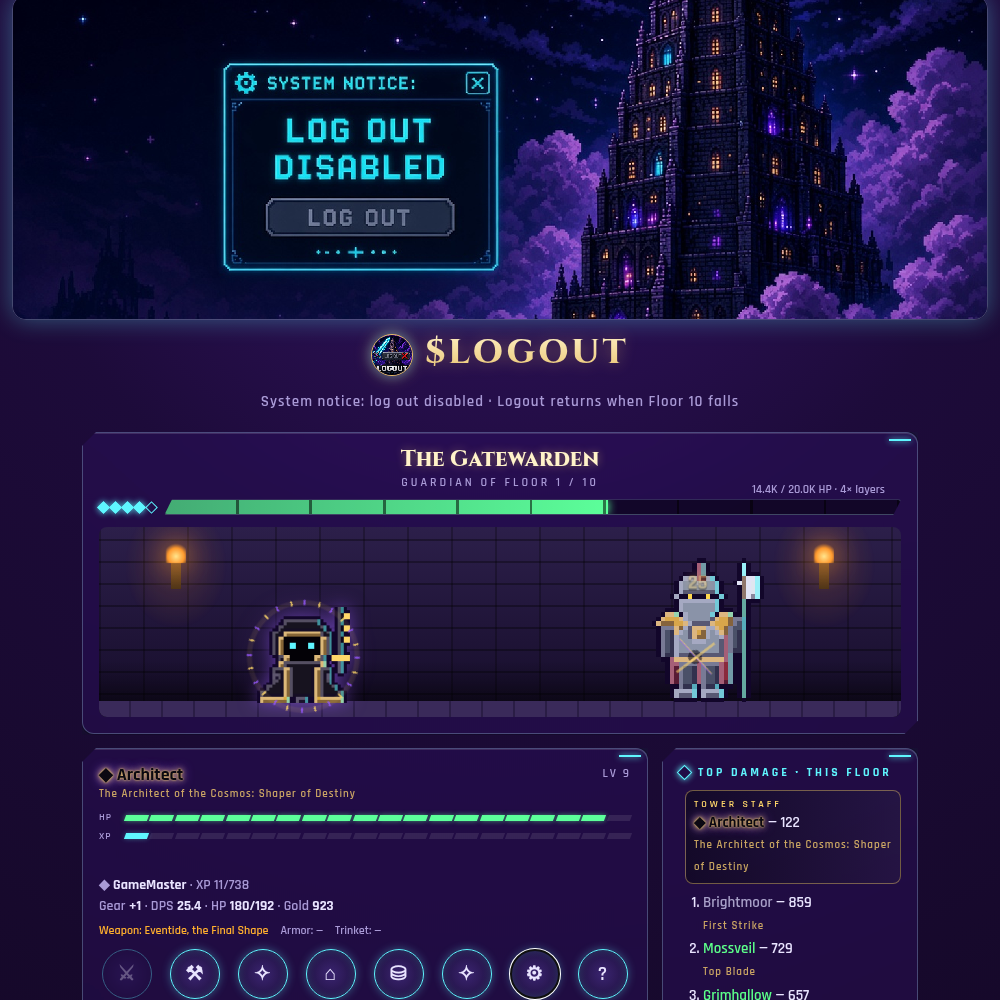
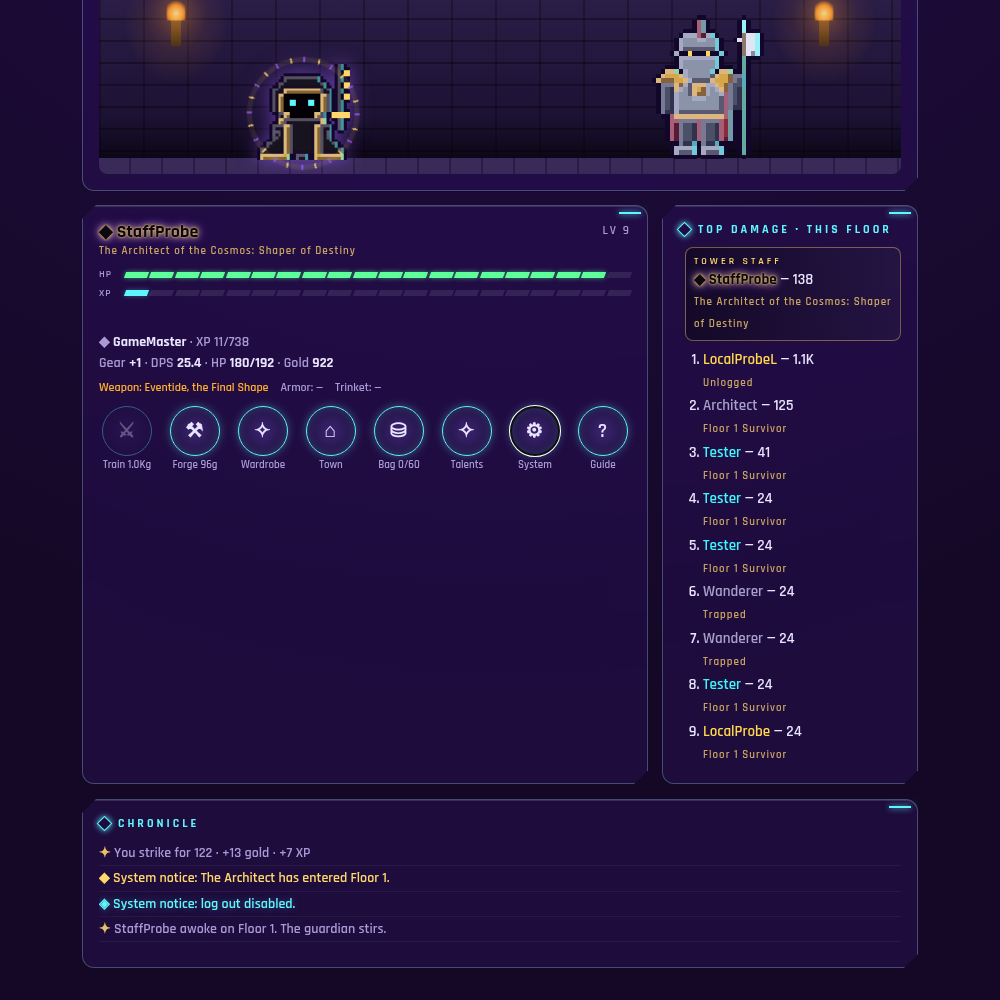
Switch online mode on: guest carry-over, graceful local fallback, local-only staff stays off the shared floor

diff --git a/js/main.js b/js/main.js
@@ -50,7 +50,7 @@ function picker(el, slots, look, heroCls, progress, onPick) {
 async function boot() {
   $('maxf').textContent = MAX_FLOOR;
   be = await makeBackend(); save = migrateSave(await be.loadSave()); if (save) delete save.ctx; // live-only context, never trusted from storage
-  gmValid = be.name === 'supabase' ? !!be.isGm?.() : await checkPass(localStorage.getItem('logout.v1.gm'), GM_PASS_HASH); // server role, or the local hash unlock
+  gmValid = !!be.isGm?.() || await checkPass(localStorage.getItem('logout.v1.gm'), GM_PASS_HASH); // server role, or the local hash unlock (also online, until the role is granted)
   if (save && sanitizeSave(save, gmValid)) { save = migrateSave(save); await be.saveSave(save); } // pasted staff ids are stripped
   if (!save) return showCreate();
   { const f0 = (await be.getFloor()).floor, bi = bossInfo(f0); save.ctx = { element: bi.lootElement, special: isSpecialSlot(f0), gm: gmValid }; } // offline maths sees the same floor context
@@ -58,7 +58,7 @@ async function boot() {
   save.gold += p.gold; const ups = applyXp(save.heroes, p.xp); pending += p.damage;
   const offFloor = (await be.getFloor()).floor, trickled = trickleDrops(save, p.secs, offFloor, TRICKLE.offlineMax);
   if (p.secs > 30) {
-    const r = await be.submitDamage(h0.name, pending, h0); pending = 0;
+    const r = await submitDmg(h0.name, pending, h0); pending = 0;
     lootLines = []; const got = handleClears(r.clears, true);
     $('awaytxt').innerHTML = `Log out disabled. You fought on for ${fmtDur(p.secs)}${p.capped ? ` (capped at ${cap}h)` : ''}${p.vigilUsed ? ' · Scroll of Vigil burned' : ''}<br>HP: ${Math.round(heroHp(h0))} / ${heroMaxHp(h0)}${p.lowSecs > 0 ? ` · worn down for ${fmtDur(p.lowSecs)} (DPS halved). Rest at the inn.` : ''}<br>Damage: ${fmt(p.damage)}<br>Gold: +${fmt(p.gold)}<br>XP: +${fmt(p.xp)}${ups.length ? `<br>Level ups: ${ups.length}` : ''}${r.advanced ? `<br>Floors cleared: ${r.advanced}. Floor ${r.floor} is open.` : ''}${got.length ? `<br>Cosmetics unlocked: ${got.map(i => esc(i.label)).join(', ')}` : ''}${lootLines.length || trickled.length ? `<br>Loot: ${[...lootLines, ...trickled.map(it => `<span style="color:${rarityOf(it.rarity).color}">${esc(it.name)}</span>`)].join(', ')}` : ''}`;
     $('away').showModal();
@@ -121,7 +121,7 @@ document.addEventListener('visibilitychange', () => { if (!document.hidden) catc
 addEventListener('focus', catchUp); addEventListener('pageshow', catchUp);
 async function sync() {
   if (be.name === 'local') be.decree = gmValid;
-  const r = await be.submitDamage(save.heroes[0].name, pending, { ...save.heroes[0], staff: gmValid }); pending = 0;
+  const r = await submitDmg(save.heroes[0].name, pending, { ...save.heroes[0], staff: gmValid }); pending = 0;
   if (recent.dmg > 0) { log(`You strike for ${fmt(recent.dmg)} · +${fmt(recent.gold)} gold · +${fmt(recent.xp)} XP`); recent = { dmg: 0, gold: 0, xp: 0 }; }
   const quiet = quietSync; quietSync = false; // clears that happened before this session are logged, not re-toasted
   if (r.advanced) { const f = r.floor - 1; log(`${bossName(f)} fell beneath many blades. The stair to Floor ${r.floor} lies open.`); log(`System notice: Floor ${r.floor} is open.`); floorCleared(f); setTimeout(() => notice(`Floor ${r.floor} is open`), 2400); }
@@ -159,7 +159,8 @@ function render() {
 }
 async function renderLb() {
   const h = save.heroes[0];
-  $('lb').innerHTML = (await be.leaderboard(h.name)).map(r => {
+  let rows = await be.leaderboard(h.name); if (localStaffOnly()) rows = [{ name: h.name, damage: localStaffDmg, staff: true, rank: 0 }, ...rows.filter(r => r.name !== h.name)];
+  $('lb').innerHTML = rows.map(r => {
     const me = r.name === h.name, pr = me ? { title: titleOf(h), color: nameColorOf(h) } : fakeProfile(r.name);
     if (r.staff) return `<li class="staff" value="0"><small>Tower Staff</small><span class="gmname">${GM_SIGIL} ${esc(r.name)}</span> — ${fmt(r.damage)}<br><span class="ttl">${esc(me ? titleOf(h) : 'Tower Staff')}</span></li>`;
     return `<li class="${me ? 'me' : ''}" value="${r.rank}"><span style="color:${pr.color}">${esc(r.name)}</span> — ${fmt(r.damage)}<br><span class="ttl">${esc(pr.title)}</span>${me && r.rank > 3 ? '<div class="climb">Climb: Train, Forge and equip loot to raise DPS. Top 3 on a kill earns rare rewards.</div>' : ''}</li>`;
@@ -255,8 +256,9 @@ function openTalents() {
 let gmValid = false; const gmActive = () => gmValid;
 async function openSystem() {
   const online = be.name === 'supabase', canBind = featureOn(FEATURES, 'bindIdentity', gmActive()), anon = online && be.isAnonymous();
+  const uid = online && be.user?.id ? `<p class="sub">Tower ID: <code id="towerId">${esc(be.user.id)}</code> <button id="copyId">Copy</button></p>` : '';
   const status = !online ? 'Offline mode. Your progress lives in this browser only.' : anon ? 'Guest identity. Bind it to keep your progress across devices.' : 'Identity bound. Your progress is stored in the tower.';
-  $('sysBody').innerHTML = `<div class="sysnote"><p>${esc(status)}</p>
+  $('sysBody').innerHTML = `<div class="sysnote"><p>${esc(status)}</p>${uid}
     ${canBind ? `<div class="bind ${online ? '' : 'off'}"><h3>Bind your identity</h3>
       <button id="bindWallet" class="cta" ${online ? '' : 'disabled'}>Sign in with Solana (Phantom)</button>
       <p class="sub">Signature only. $LOGOUT asks your wallet to sign a short message. It never requests a transaction, never sees your keys and never touches your funds.</p>
@@ -270,6 +272,7 @@ async function openSystem() {
       const pk = window.phantom?.solana?.publicKey?.toString?.(); const hs = await holderStatus(pk, { rpc: SOLANA_RPC, mint: TOKEN_MINT, threshold: HOLDER_THRESHOLD }); if (hs.enabled) save.holder = hs.holder;
       await be.saveSave(save); msg('identity bound to your wallet'); render(); openSystem(); } catch (e) { msg(`binding failed: ${e.message || e}`); } };
   if ($('bindMail')) $('bindMail').onclick = async () => { const em = $('bindEmail').value.trim(); if (!/^\S+@\S+\.\S+$/.test(em)) return notice('Enter a valid email'); try { await be.bindEmail(em); msg('magic link sent, check your inbox'); } catch (e) { msg(`binding failed: ${e.message || e}`); } };
+  if ($('copyId')) $('copyId').onclick = () => navigator.clipboard?.writeText(be.user.id).then(() => notice('Tower ID copied'), () => {});
   if ($('sever')) $('sever').onclick = async () => { if (!confirm('Sever the link to this identity on this browser?')) return; await be.sever(); location.reload(); };
   if (typeof renderGmSlot === 'function') renderGmSlot();
   if (!$('system').open) $('system').showModal();
@@ -293,10 +296,10 @@ let gmTaps = 0;
 function renderGmSlot() {
   const el = $('gmSlot'); if (!el) return; const online = be.name === 'supabase', h = save.heroes[0];
   $('system').querySelector('.settings summary').onclick = () => { if (++gmTaps >= 5) { gmTaps = 0; el.dataset.show = '1'; renderGmSlot(); } };
-  if (!gmValid && (online || !GM_PASS_HASH || el.dataset.show !== '1')) { el.innerHTML = ''; return; } // hidden unless revealed, and only while local mode has a hash set
+  if (!gmValid && (!GM_PASS_HASH || el.dataset.show !== '1')) { el.innerHTML = ''; return; } // hidden unless revealed, and only while local mode has a hash set
   el.innerHTML = gmValid ? `<div class="staffbox"><b class="gmname">${GM_SIGIL} Staff access</b>
       ${h.cls === GM_CLASS ? `<button id="gmLeave">Return to ${esc(h.prevCls || 'Vanguard')}</button>` : '<button id="gmBecome" class="cta">Take the Architect\'s form</button>'}
-      ${featureOn(FEATURES, 'sandbox', true) ? '<button id="gmSandbox">Sandbox</button>' : ''}${online ? '' : '<button id="gmLock">Lock staff access</button>'}</div>`
+      ${featureOn(FEATURES, 'sandbox', true) ? '<button id="gmSandbox">Sandbox</button>' : ''}${localStorage.getItem('logout.v1.gm') ? '<button id="gmLock">Lock staff access</button>' : ''}${online && !be.isGm() ? '<p class="sub">Local staff unlock: your damage stays on this device (never sent to the shared floor or ranked) until the server role is granted.</p>' : ''}</div>`
     : `<div class="staffbox"><input id="gmPass" type="password" autocomplete="off" placeholder="access phrase"><button id="gmTry">Verify</button></div>`;
   if ($('gmTry')) $('gmTry').onclick = async () => { const p = $('gmPass').value; if (await checkPass(p, GM_PASS_HASH)) { localStorage.setItem('logout.v1.gm', p); gmValid = true; save.ctx.gm = true; notice('Staff access verified'); renderGmSlot(); render(); } else notice('Access denied'); };
   if ($('gmBecome')) $('gmBecome').onclick = async () => { becomeGm(save, legendaryWeaponDps(floor.floor), floor.floor); lastFloorSeen = 0; gmFloorChecks(); await be.saveSave(save); render(); renderLb(); renderGmSlot(); };
@@ -316,3 +319,12 @@ function openSandboxUi() {
   d.onclose = () => { sbx = closeSandbox(sbx); }; draw(); if (!d.open) d.showModal();
 }
 const bossInfoName = f => { const i = bossInfo(f); return `${i.name}${i.kind !== 'generated' ? ' · special' : ''}`; };
+
+// A staff hero unlocked only by the local hash (no server role yet) never sends damage to the shared floor:
+// the server would rank it as a normal player. Its damage stays on this device and shows on a local Tower Staff line.
+let localStaffDmg = 0;
+const localStaffOnly = () => gmValid && be.name === 'supabase' && !be.isGm();
+async function submitDmg(name, amount, hero) {
+  if (localStaffOnly()) { localStaffDmg += amount; const f = await be.getFloor(); return { ...f, advanced: false, accepted: 0, clears: [] }; }
+  return be.submitDamage(name, amount, hero);
+}

diff --git a/js/supabase.js b/js/supabase.js
@@ -1,12 +1,13 @@
 // SupabaseBackend: same interface as LocalBackend (init, loadSave, saveSave, getFloor, submitDamage, leaderboard) plus identity helpers.
 // Only constructed when SUPABASE_URL and SUPABASE_ANON_KEY are set. Free-tier friendly: damage is batched and flushed every
 // 30s, the floor is polled every 30s, no realtime subscriptions. The client is injected so tests can use a mock.
+import { sanitizeSave } from './gm.js';
 export const FLUSH_MS = 30000, POLL_MS = 30000;
 const SIGN_STATEMENT = 'Sign in to $LOGOUT. This is a signature only: it does not send a transaction, move funds or share your keys.';
-/** Last-write-wins by updatedAt. Ties keep the cloud copy. */
+/** Last-write-wins by updatedAt. Ties keep the local copy (the cloud copy may be a staff-stripped mirror of it). */
 export function mergeSaves(local, cloud) {
   if (!cloud) return local || null; if (!local) return cloud;
-  return (local.updatedAt || 0) > (cloud.updatedAt || 0) ? local : cloud;
+  return (local.updatedAt || 0) >= (cloud.updatedAt || 0) ? local : cloud;
 }
 export class SupabaseBackend {
   name = 'supabase';
@@ -18,6 +19,9 @@ export class SupabaseBackend {
     let { data } = await this.sb.auth.getSession();
     if (!data?.session) { const r = await this.sb.auth.signInAnonymously(); if (r.error) throw r.error; data = { session: r.data.session }; } // guest-first
     this.user = data.session.user; await this._profile();
+    const seen = this.store.getItem(this.k + '.seenClear'); // clears since this browser last looked are credited; a brand-new guest starts at "now"
+    if (seen != null) this.seenClear = +seen || 0;
+    else { const { data: lc } = await this.sb.from('floor_clears').select('id').order('id', { ascending: false }).limit(1); this.seenClear = lc?.[0]?.id || 0; this.store.setItem(this.k + '.seenClear', String(this.seenClear)); }
   }
   async _profile() { const { data } = await this.sb.from('profiles').select('role, holder').eq('id', this.user.id).maybeSingle(); this.role = data?.role === 'gm' ? 'gm' : 'player'; this.holder = !!data?.holder; }
   isGm() { return this.role === 'gm'; } // server-decided; profiles.role cannot be self-assigned (see schema.sql)
@@ -34,10 +38,12 @@ export class SupabaseBackend {
     s.updatedAt = this.now(); this.store.setItem(this.k + '.save', JSON.stringify(s)); this._dirty = s;
     if (this.now() - (this._lastPush || 0) >= FLUSH_MS) await this._push(s);
   }
-  async _push(s) { this._lastPush = this.now(); this._dirty = null; const { ctx, ...data } = s; await this.sb.from('saves').upsert({ user_id: this.user.id, data, updated_at: new Date(s.updatedAt || this.now()).toISOString() }); }
+  async _push(s) { this._lastPush = this.now(); this._dirty = null; const { ctx, ...data0 } = s; const data = JSON.parse(JSON.stringify(data0)); if (!this.isGm()) sanitizeSave(data, false); // no staff data reaches the server without the server role
+    try { await this.sb.from('saves').upsert({ user_id: this.user.id, data, updated_at: new Date(s.updatedAt || this.now()).toISOString() }); } catch (e) { this._dirty = s; } } // offline/rate-limited: retried on the next flush
   async getFloor() {
     if (!this.floor || this.now() - this.lastPoll >= POLL_MS) {
-      const { data } = await this.sb.from('floor_state').select('*').eq('id', 1).single(); this.lastPoll = this.now();
+      const { data, error } = await this.sb.from('floor_state').select('*').eq('id', 1).single(); this.lastPoll = this.now();
+      if (error || !data) { if (this.floor) return { ...this.floor, hp: this.floor.hp - this.pending }; throw error || new Error('floor unavailable'); } // keep the cached floor when the poll fails
       this.floor = { floor: data.floor, hp: Number(data.hp), maxHp: Number(data.max_hp), gmUntil: Date.parse(data.gm_present_until || 0) || 0, announce: data.gm_announce || null };
     }
     return { ...this.floor, hp: this.floor.hp - this.pending };
@@ -51,20 +57,20 @@ export class SupabaseBackend {
   async flush() {
     const amt = Math.floor(this.pending); this.pending -= amt; this.lastFlush = this.now(); if (this._dirty) await this._push(this._dirty);
     const { data, error } = await this.sb.rpc('submit_damage', { p_amount: amt, p_name: this.meta.name || 'Nameless', p_level: this.meta.level || 1, p_gear: this.meta.gear || 0 });
-    if (error) { this.pending += amt; throw error; }
+    if (error) { this.pending += amt; const f = await this.getFloor(); return { ...f, advanced: false, accepted: 0, clears: [], offline: true }; } // unreachable / rate-limited: keep the damage and retry next flush
     const before = this.floor?.floor; this.floor = { floor: data.floor, hp: Number(data.hp), maxHp: Number(data.max_hp), gmUntil: Date.parse(data.gm_present_until || 0) || 0, announce: data.gm_announce || null }; this.lastPoll = this.now();
     const clears = await this._clears();
     return { ...this.floor, advanced: data.floor !== before && before != null, accepted: Number(data.accepted), clears };
   }
   async _clears() { // floors cleared since we last looked: { floor, ranking (non-staff names), dmg {name: dmg}, maxHp }
-    const { data } = await this.sb.from('floor_clears').select('*').gt('id', this.seenClear).order('id'); const out = [];
-    for (const c of data || []) { this.seenClear = Math.max(this.seenClear, c.id); out.push({ floor: c.floor, ranking: c.ranking || [], dmg: c.dmg || {}, maxHp: Number(c.max_hp) }); }
+    const { data, error } = await this.sb.from('floor_clears').select('*').gt('id', this.seenClear).order('id'); const out = []; if (error) return out;
+    for (const c of data || []) { this.seenClear = Math.max(this.seenClear, c.id); this.store.setItem(this.k + '.seenClear', String(this.seenClear)); out.push({ floor: c.floor, ranking: c.ranking || [], dmg: c.dmg || {}, maxHp: Number(c.max_hp) }); }
     return out;
   }
   async leaderboard(me = null) {
     const f = (await this.getFloor()).floor;
-    const { data } = await this.sb.from('damage').select('name, damage, is_staff').eq('floor', f).order('damage', { ascending: false }).limit(25);
-    const rows = (data || []).map(r => ({ name: r.name, damage: Number(r.damage), staff: !!r.is_staff }));
+    const { data, error } = await this.sb.from('damage').select('name, damage, is_staff').eq('floor', f).order('damage', { ascending: false }).limit(25);
+    const rows = (error ? [] : data || []).map(r => ({ name: r.name, damage: Number(r.damage), staff: !!r.is_staff }));
     const ranked = rows.filter(r => !r.staff).map((r, i) => ({ ...r, rank: i + 1 })), top = ranked.slice(0, 10);
     if (me && !top.some(r => r.name === me) && !rows.some(r => r.staff && r.name === me)) top.push(ranked.find(r => r.name === me) || { name: me, damage: 0, rank: ranked.length + 1 });
     return [...rows.filter(r => r.staff).map(r => ({ ...r, rank: 0 })), ...top];

diff --git a/js/storage.js b/js/storage.js
@@ -17,7 +17,7 @@ export class LocalBackend {
   _w() { const w = JSON.parse(localStorage.getItem(this.k + '.world') || 'null'); if (w) { LEGACY.forEach((o, i) => { if (o in w.dmg) { w.dmg[FAKE[i]] = (w.dmg[FAKE[i]] || 0) + w.dmg[o]; delete w.dmg[o]; } }); return w; } const n = { floor: 1, hp: floorBossHp(1), dmg: {}, t: Date.now() }; headStart(n); return n; }
   _sw(w) { localStorage.setItem(this.k + '.world', JSON.stringify(w)); }
   async loadSave() { return JSON.parse(localStorage.getItem(this.k + '.save') || 'null'); }
-  async saveSave(s) { const { ctx, ...rest } = s; localStorage.setItem(this.k + '.save', JSON.stringify(rest)); } // ctx is runtime-only
+  async saveSave(s) { s.updatedAt = Date.now(); const { ctx, ...rest } = s; localStorage.setItem(this.k + '.save', JSON.stringify(rest)); } // ctx is runtime-only
   _sim(w) { // fake other players chip at the boss
     const secs = Math.min((Date.now() - w.t) / 1000, 3600); w.t = Date.now();
     for (const n of FAKE) { const d = Math.floor(secs * (5 + (n.length * 7) % 40) * Math.random() * 2 * (this.decree ? 1.05 : 1)); /* Shaper's Decree lifts everyone on the floor */ w.dmg[n] = (w.dmg[n] || 0) + d; w.hp -= d; }
@@ -37,11 +37,13 @@ export class LocalBackend {
 
 /** Online only when configured AND flagged on; any failure falls back to the local backend so the game always starts. */
 export const onlineConfigured = (url = SUPABASE_URL, key = SUPABASE_ANON_KEY, flags = FEATURES) => !!(url && key && flags?.online === 'all');
+const withTimeout = (p, ms) => Promise.race([p, new Promise((_, rej) => setTimeout(() => rej(new Error('timeout')), ms))]);
 export async function makeBackend() {
   if (onlineConfigured()) {
     try {
       const [{ createClient }, { SupabaseBackend }] = await Promise.all([import('https://esm.sh/@supabase/supabase-js@2'), import('./supabase.js')]);
-      const b = new SupabaseBackend(createClient(SUPABASE_URL, SUPABASE_ANON_KEY), { maxFloor: MAX_FLOOR, redirectTo: location.origin + location.pathname }); await b.init(); return b;
+      const b = new SupabaseBackend(createClient(SUPABASE_URL, SUPABASE_ANON_KEY), { maxFloor: MAX_FLOOR, redirectTo: location.origin + location.pathname });
+      await withTimeout((async () => { await b.init(); await b.getFloor(); })(), 10000); return b; // sign-in + first floor read must succeed, else play locally
     } catch (e) { console.warn('Online mode unavailable, playing offline:', e?.message || e); }
   }
   const b = new LocalBackend(); await b.init(); return b;

diff --git a/config.js b/config.js
@@ -8,6 +8,6 @@ export const TOKEN_MINT = '';         // $LOGOUT mint address; empty disables th
 export const HOLDER_THRESHOLD = 0;    // minimum token balance (UI units) for the holder perk
 // ---- Feature flags: 'off' | 'gm' (staff early access) | 'all'
 // online stays 'off' until supabase/schema.sql has been run on the project (see supabase/SETUP.md).
-export const FEATURES = { online: 'off', bindIdentity: 'gm', sandbox: 'gm' };
+export const FEATURES = { online: 'all', bindIdentity: 'gm', sandbox: 'gm' };
 // ---- Local-only staff unlock (used only while Supabase is off). SHA-256 hex of a passphrase; empty disables it.
[1 lines of base64/hex data omitted]

diff --git a/supabase/SETUP.md b/supabase/SETUP.md
@@ -1,6 +1,6 @@
 # Supabase setup ($LOGOUT online mode)
 
-Online mode stays **off** until these steps are done (`FEATURES.online: 'off'` in `config.js`). The game runs fully offline/local until then.
+Online mode is **on** (`FEATURES.online: 'all'`). Set it back to `'off'` to return to local-only play. Any sign-in or network failure falls back to local play automatically.
 
 1. **Run the schema.** Dashboard → SQL Editor → New query → paste all of `supabase/schema.sql` → Run. It is idempotent (tables `if not exists`, functions `create or replace`, policies dropped and recreated), so it is safe to run again after edits. RLS is enabled on every table (`profiles`, `saves`, `floor_state`, `damage`, `floor_clears`).
 2. **Auth providers** (Authentication → Sign In / Providers):
